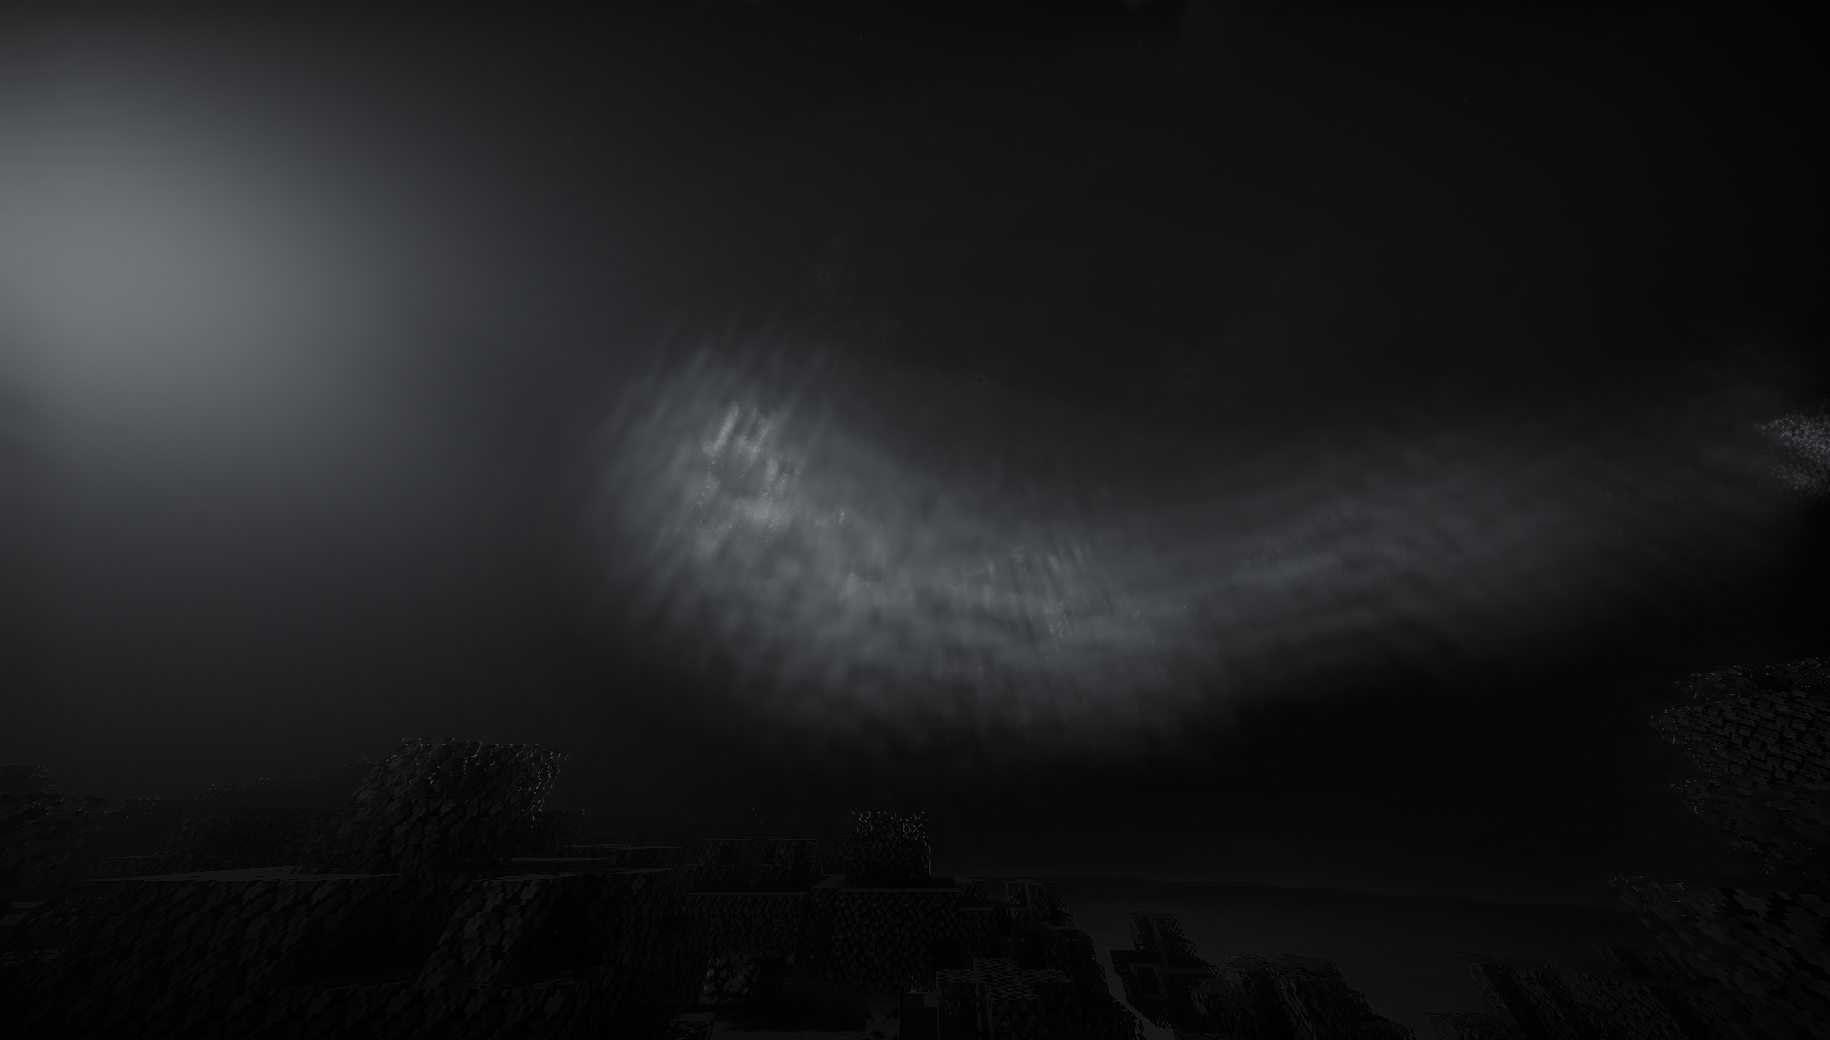
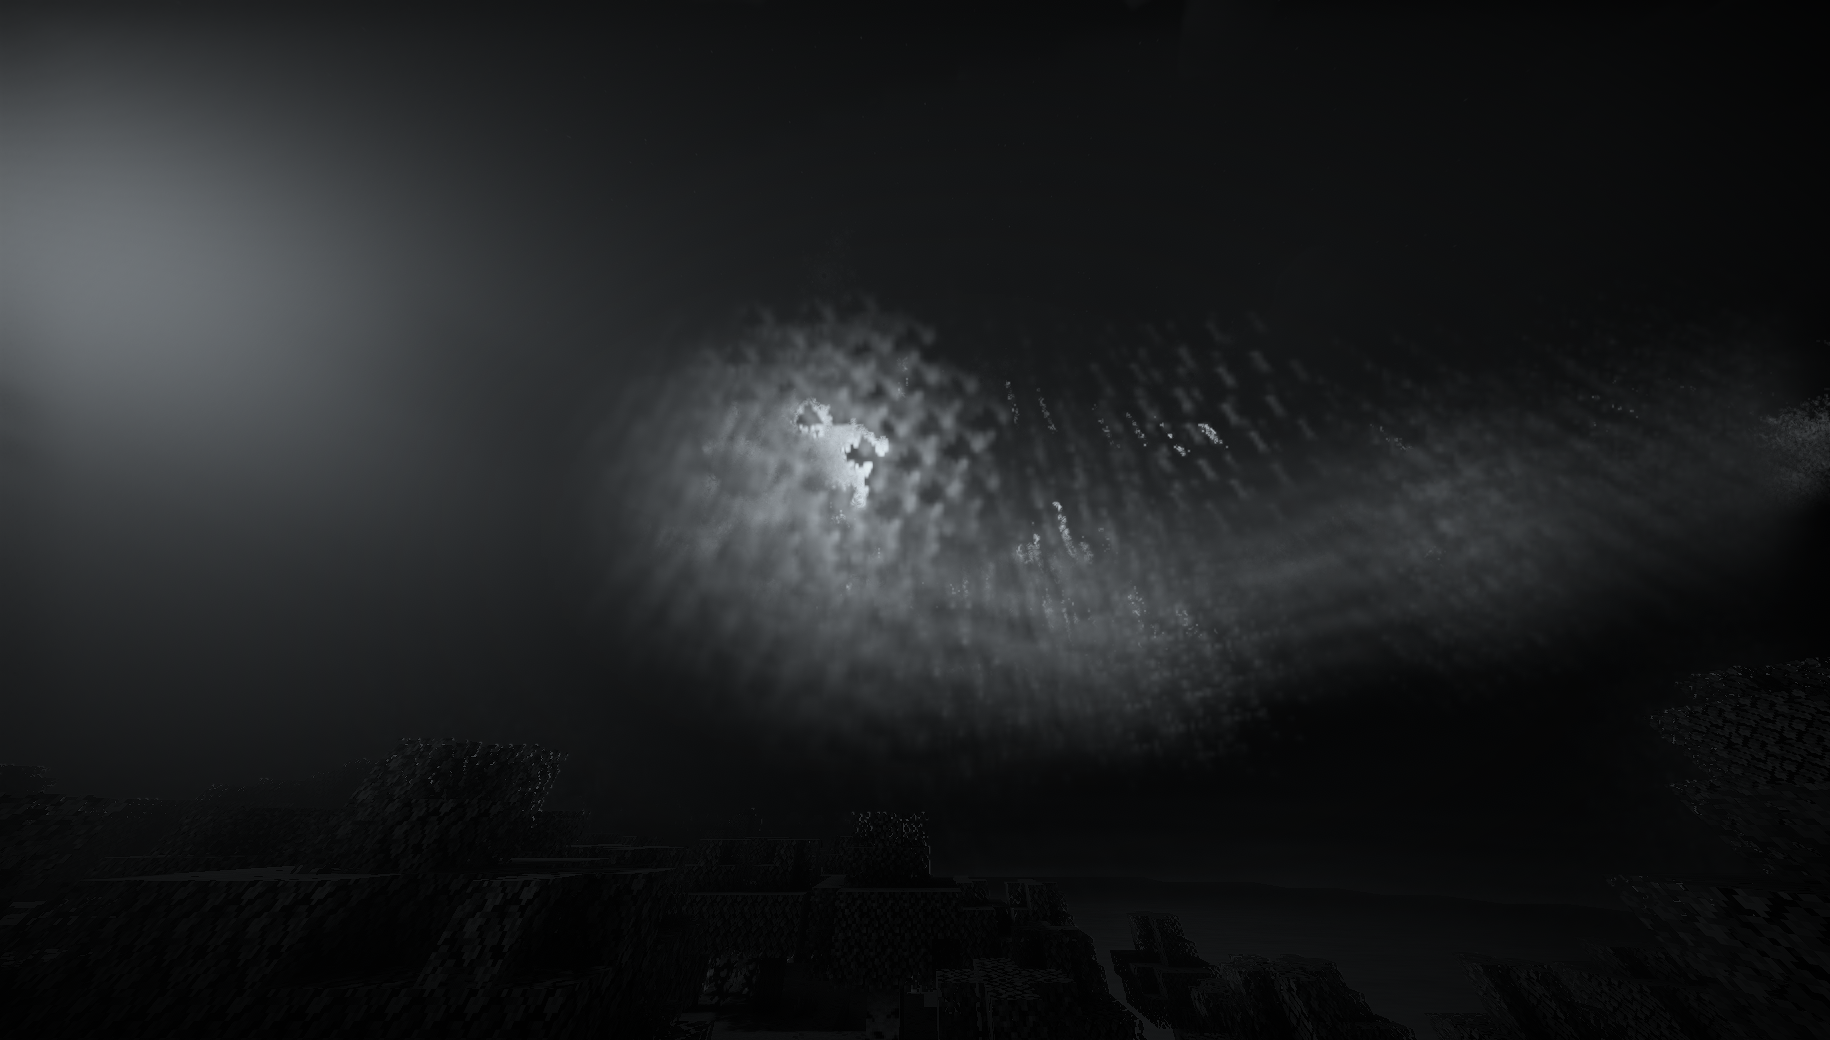
06: la ventana lee el mapa en la dirección de vista (respuesta corregida): puntos nítidos
Una lectura del mapa por píxel en dir.xz, sin integrar, escalada por la
intensidad de las cortinas; el color de los conos queda como alternativa.
Comparado en las condiciones de la referencia (14000, sur, horizonte): ya
aparecen formas y puntos nítidos del fractal entre las cortinas.

Changed region(s): [[0.4049, 0.3077, 0.5918, 0.5538], [0.623, 0.4, 0.6852, 0.4615], [0.9967, 0.4, 1.0, 0.4308]]

diff --git a/docs/efectos/aurora.md b/docs/efectos/aurora.md
@@ -62,15 +62,18 @@ de la especificación tomada literal, no se veía nada en nuestra escala de luz;
 
 ### Ventana
 
-Respuesta de A (especificación 06 §7, `8873b86`): con la dirección de vista el mapa se lee lejos de la línea de la
-que baja el cono, donde no hay fractal; por eso no se veía. Ahora se usa **el color del cono**: durante el tramo,
-cada muestra acumula el color del mapa en su punto (`rel.xz / R`, la misma lectura que la luz de la cortina)
-pesado por despeje × largo, y al final se normaliza por la ventana. El peso es el de Vulpe (ventana / largo del
-cono × 2 × ruido del despeje × noche), sumado sin la transmitancia de delante, y el color se escala por la
-intensidad de las cortinas × 0,6 (`VOL_AURORA_VENTANA_ESCALA`), como propone A, para que los filamentos dentro del
-cono no queden por debajo de la niebla. **Visto:** trazos y puntos brillantes del fractal dentro de los conos,
-sobre la cortina (diferencia con «sin ventana» de hasta 135/255, media 4,4; antes 2,7 de puro ruido). Da además
-los «puntos y filamentos brillantes sobre una cortina más oscura» que el gestor echaba en falta.
+Especificación 06 §7 y §7 bis, **corregidos por A** (`239f0d0`, `9eeb952`): los puntos nítidos de la referencia son la
+ventana, y salen nítidos porque se lee el mapa en la **dirección de vista** (`dir.xz`, el disco del cielo): una lectura
+por píxel, sin integrar a lo largo del rayo. Así está ahora. El color de los conos atravesados (lo que había hasta
+el 2026-11-02, siguiendo la primera respuesta) queda como alternativa (`VOL_AURORA_VENTANA_CONO`).
+
+Peso: `clamp(ventana / largo_cono, 0, 1) · 2 × ruido del despeje × noche`, sumado al final del rayo sin pesar por la
+transmitancia. **Escala:** el color del mapa es el cielo fractal (muy tenue en nuestra escala); sin escalar no se
+veía (diferencia 1/255), así que se multiplica por la intensidad de las cortinas × 4 (`VOL_AURORA_VENTANA_ESCALA`),
+la vía que da la especificación «en vez de subir VENTANA sin límite».
+
+**Muestreo de la cortina:** comprobado igual que en Vulpe (§7 bis): 4 muestras estratificadas por cuartos del trozo
+recortado con desfase áureo, peso casi saturado, y el total por la transmitancia al principio del paso.
 
 ### Depuración
 
@@ -152,3 +155,9 @@ derecha; semilla 8, la de por defecto, y la de la referencia puede ser otra):
   izquierda.
 - **Lo que falta sigue igual:** la referencia tiene dentro de la figura puntos y filamentos nítidos y muy
   brillantes; la nuestra, luz suave con vetas. El contraste general y la disposición ya se parecen.
+
+**Con la ventana en la dirección de vista** (`hoja-aurora-frente-referencia.png`: arriba a la izquierda antes, arriba a
+la derecha después, abajo a la izquierda a −40°, abajo a la derecha la referencia; hora 14000, sur, horizonte, 110°):
+en la mitad de arriba aparecen **formas y puntos nítidos y brillantes del fractal** entre las cortinas verticales,
+como en la referencia. Se ven algo en escalón (el mapa es de ¼ de resolución). Coste de noche con la aurora a la
+vista: 8,6 ms de GPU (sin cambio apreciable).
